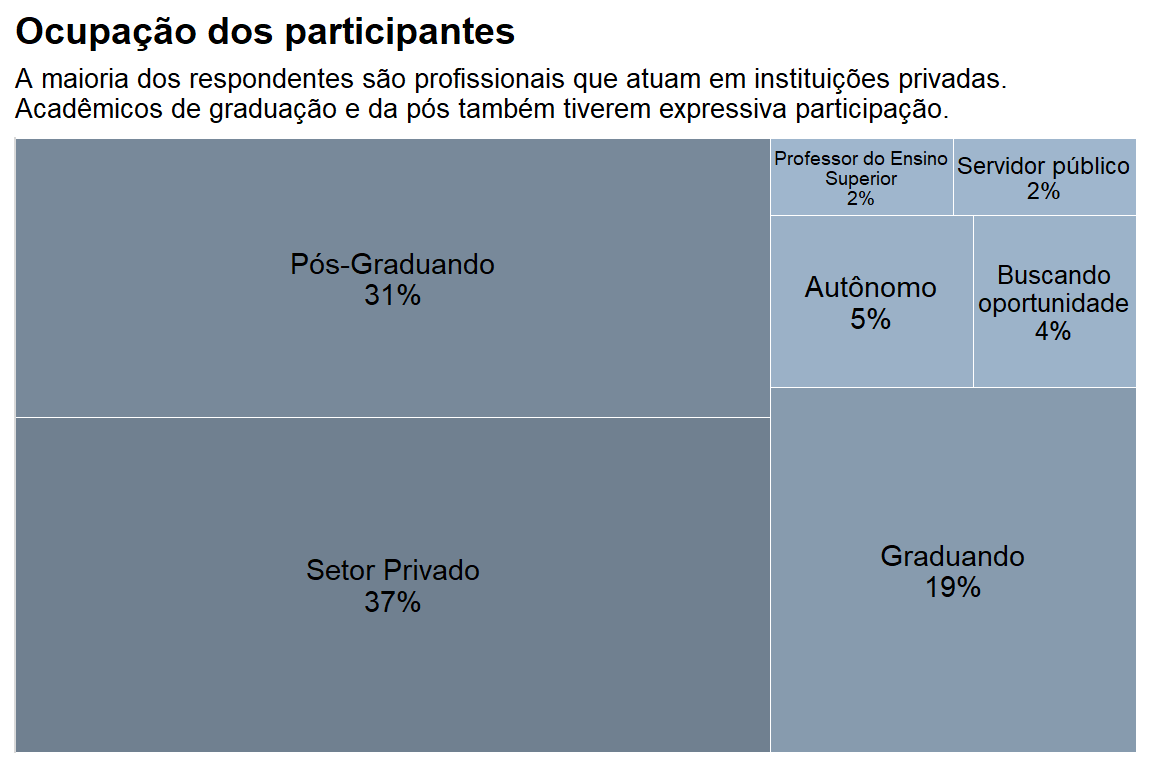
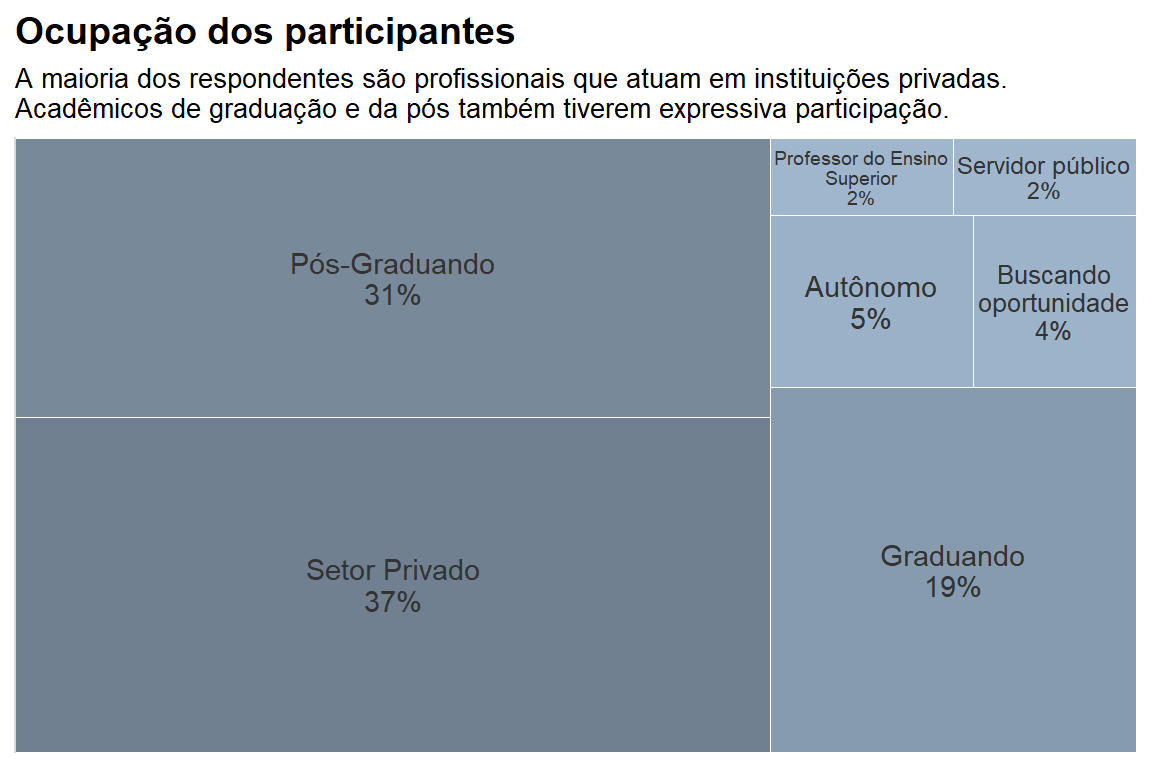
Update

diff --git a/content/post/perfil-do-engenheiro-florestal-usuario-do-r/index.html b/content/post/perfil-do-engenheiro-florestal-usuario-do-r/index.html
@@ -75,7 +75,7 @@ respostas %&gt;%
   st_as_sf() %&gt;%
   ggplot() +
   geom_sf(aes(fill = n), color = &#39;white&#39;, size=.5, show.legend = F) +
-  geom_sf_text(aes(label = n), color=&#39;black&#39;)+
+  geom_sf_text(aes(label = n), color=&#39;gray20&#39;)+
   labs(title = &#39;Quantidade de respostas por região de atuação&#39;,
        subtitle = &#39;Os respondentes se concentraram nas regiões sul, sudeste e nordeste.\nTivemos poucos respondentes da região norte do país.&#39;,
        caption = paste0(&#39;Participantes que atuam no exterior: &#39;,
@@ -108,7 +108,7 @@ respostas %&gt;%
   arrange(-n) %&gt;% 
   ggplot(aes(area = n, fill = n, label = Ocup_label))+
   geom_treemap(show.legend = F, color = &#39;white&#39;)+
-  geom_treemap_text(colour = &quot;black&quot;,
+  geom_treemap_text(colour = &quot;gray20&quot;,
                     place = &quot;centre&quot;,
                     size = 11)+
   scale_fill_gradient(high = &#39;slategrey&#39;, low = &#39;slategray3&#39;)+
